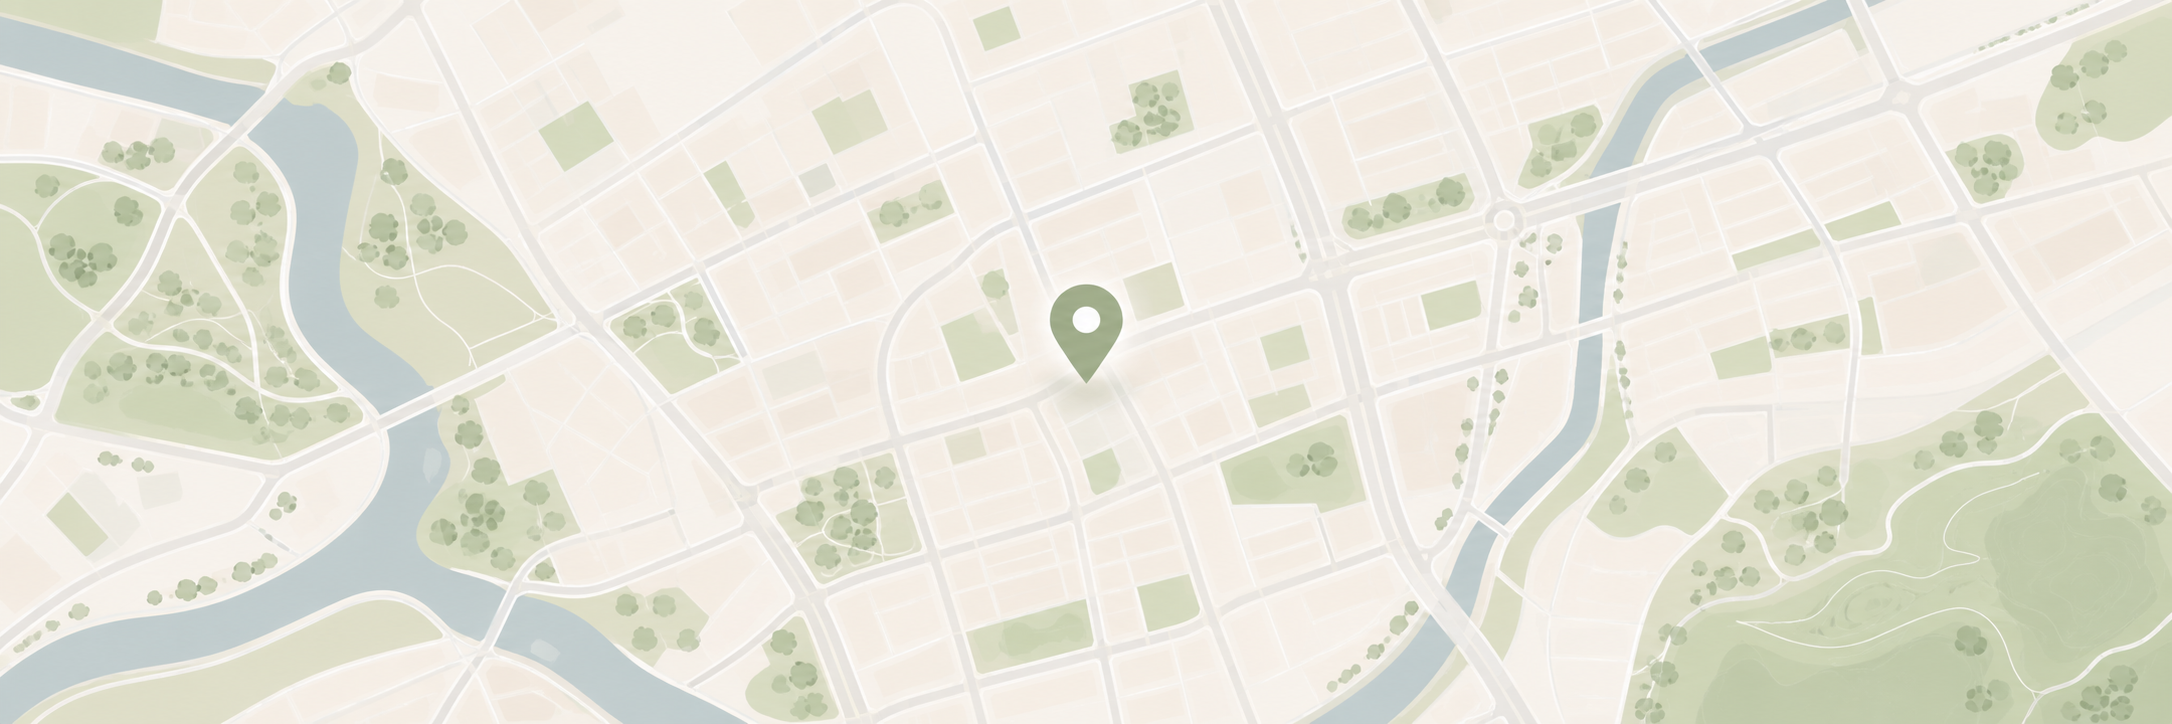
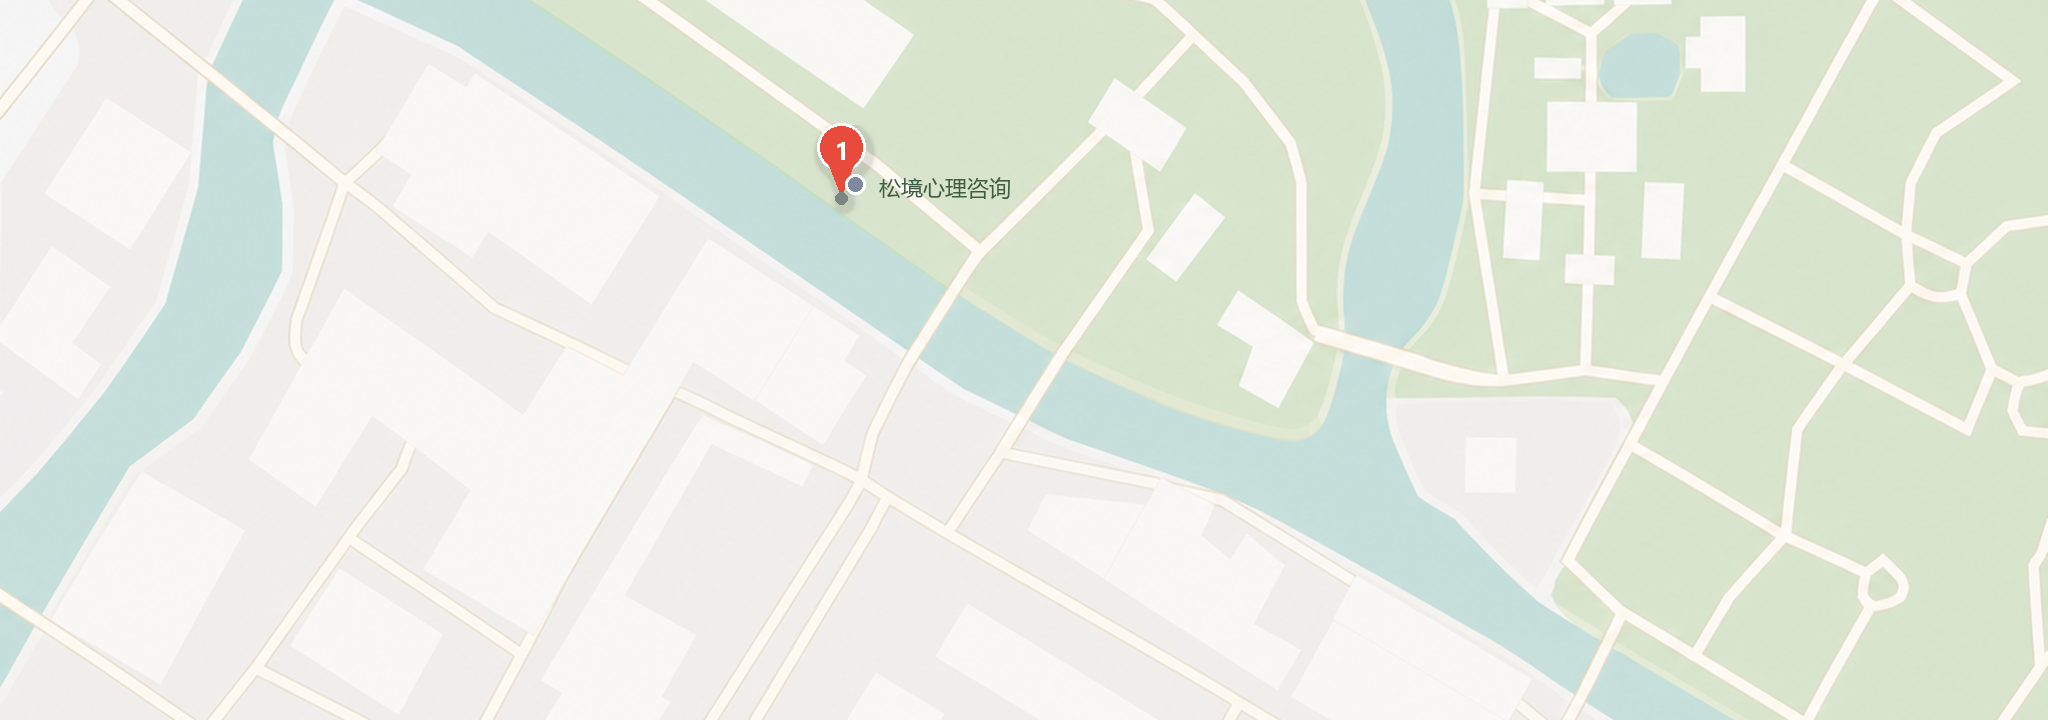
Use real map style contact preview

diff --git a/contact.html b/contact.html
@@ -99,7 +99,7 @@
       rel="noopener noreferrer"
       aria-label="打开地图导航，前往海曙区高桥镇梁祝路12弄良库梧桐里D3-102号"
     >
-      <img src="assets/contact-map-preview.svg" alt="松境心理地址示意地图：海曙区高桥镇梁祝路12弄良库梧桐里D3-102号">
+      <img src="assets/contact-map-preview.png" alt="松境心理地址示意地图：海曙区高桥镇梁祝路12弄良库梧桐里D3-102号">
       <span>打开地图导航</span>
     </a>
   </div>